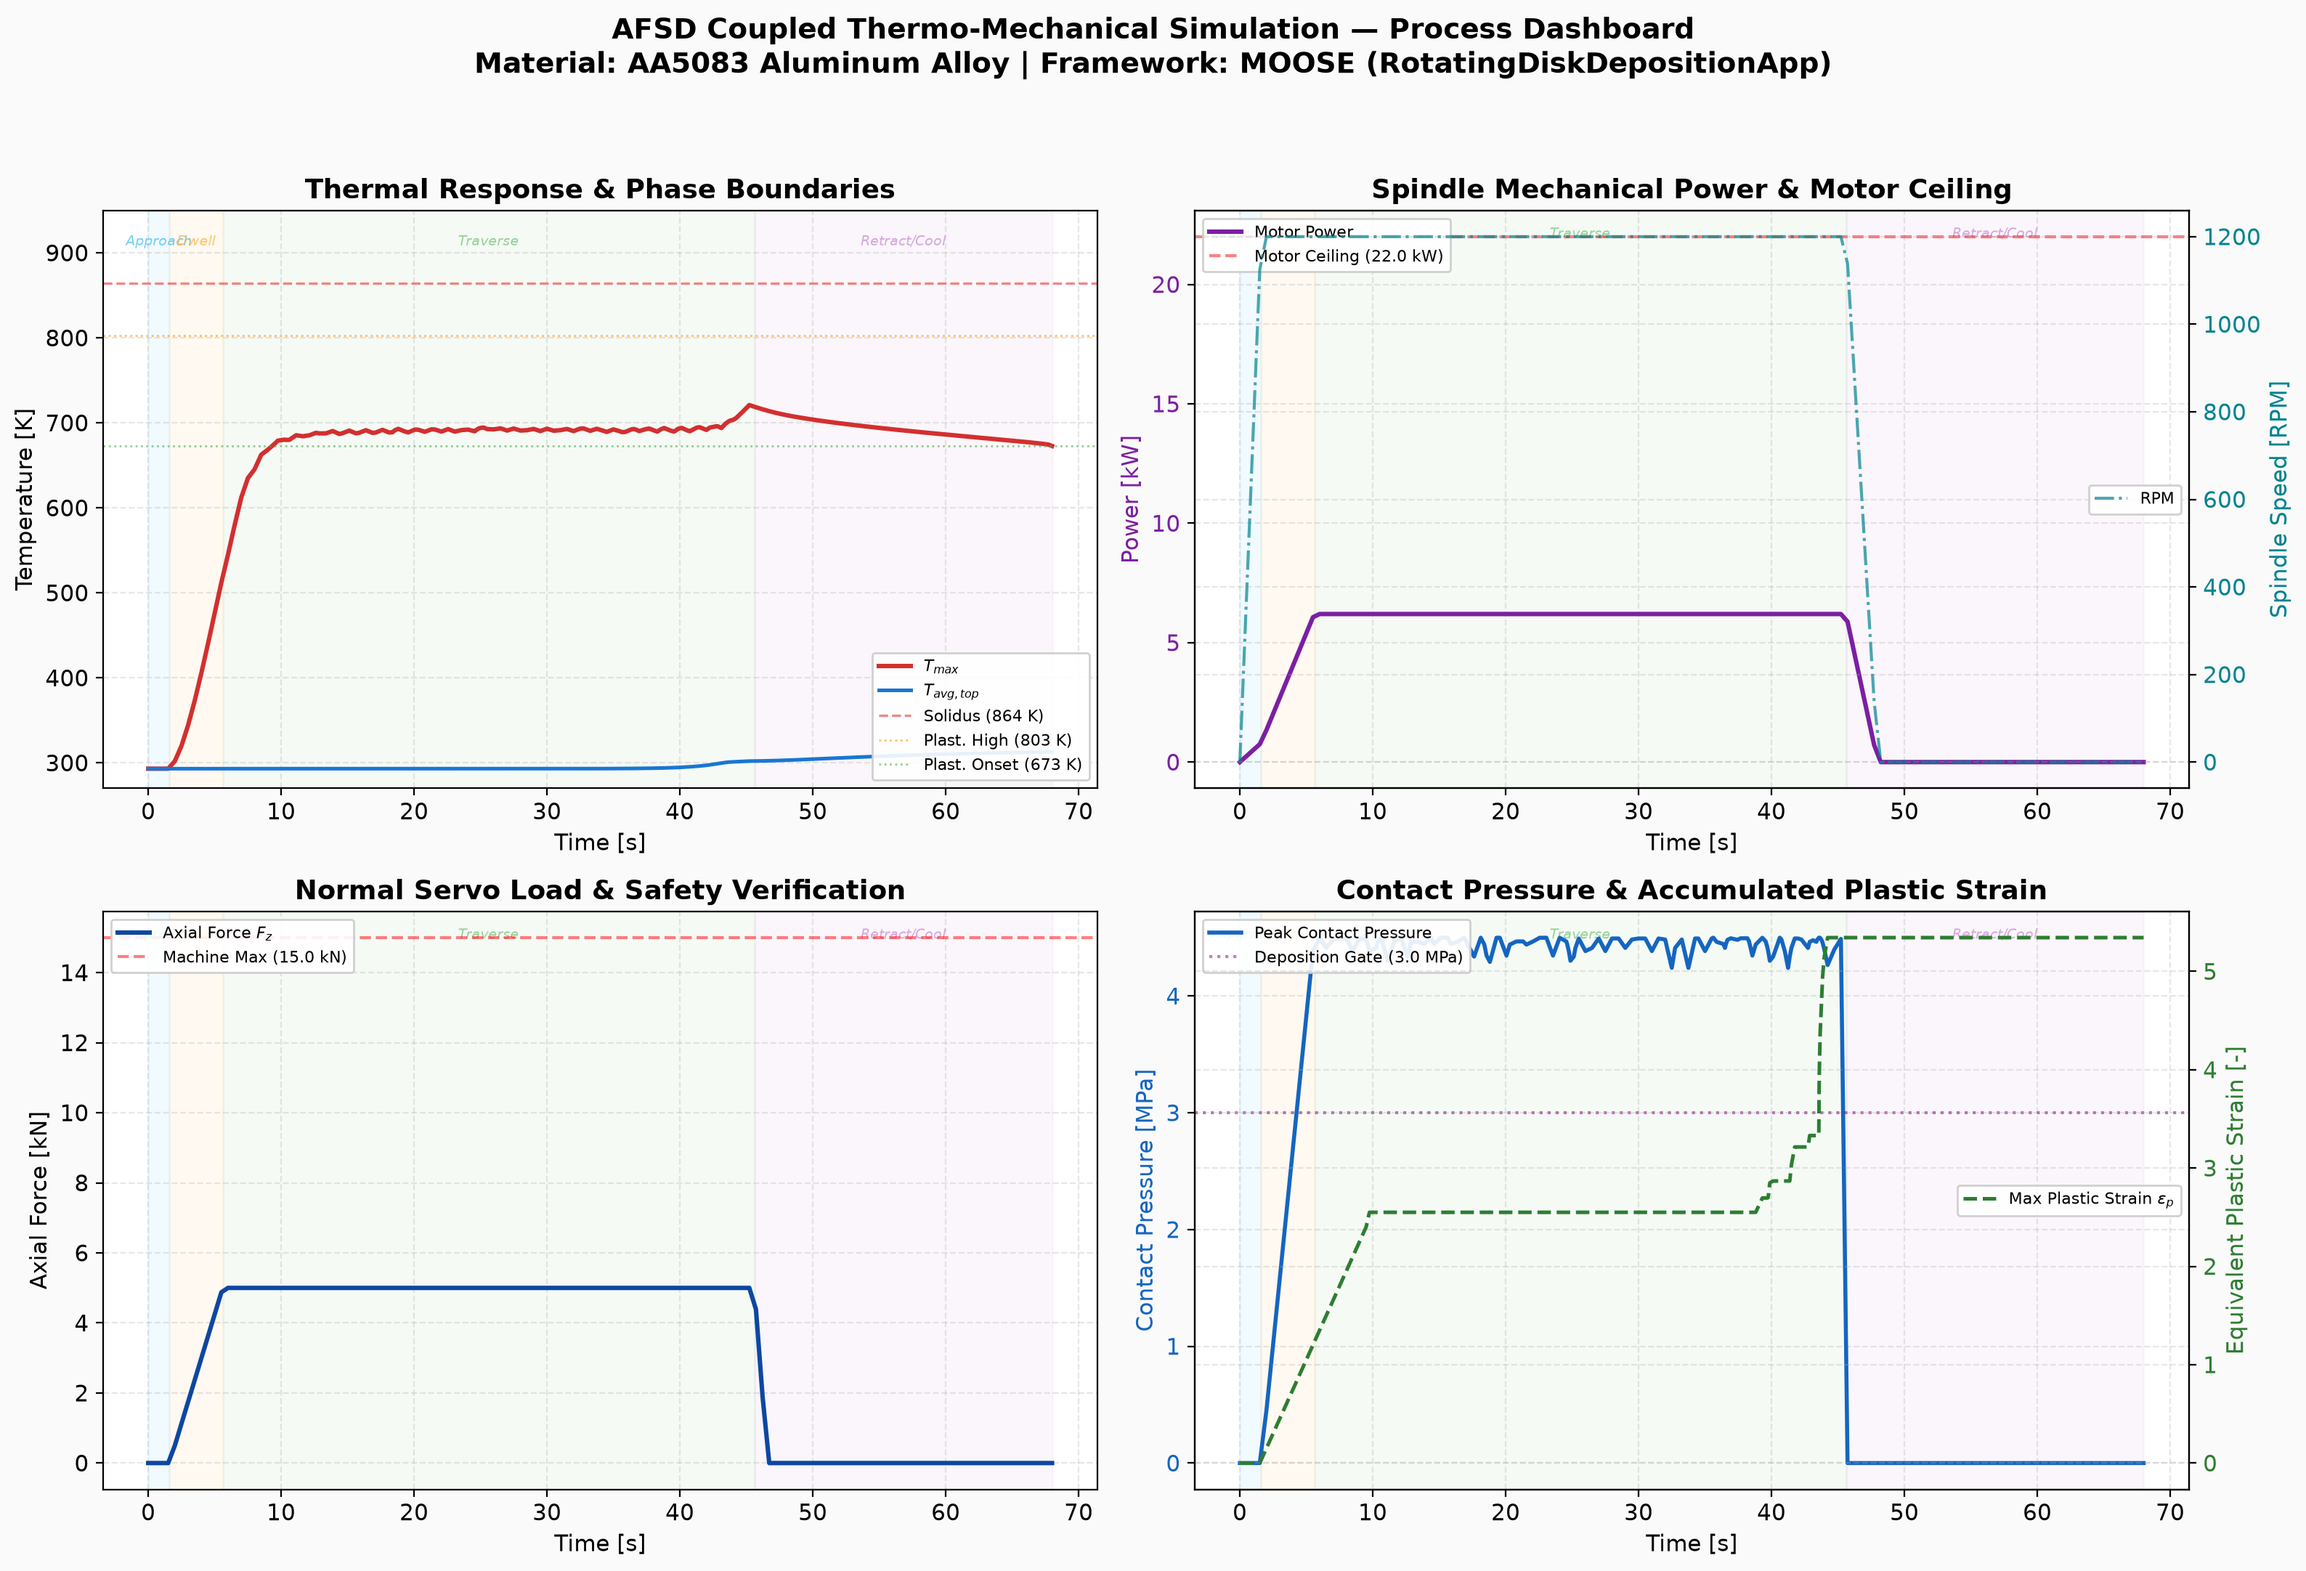
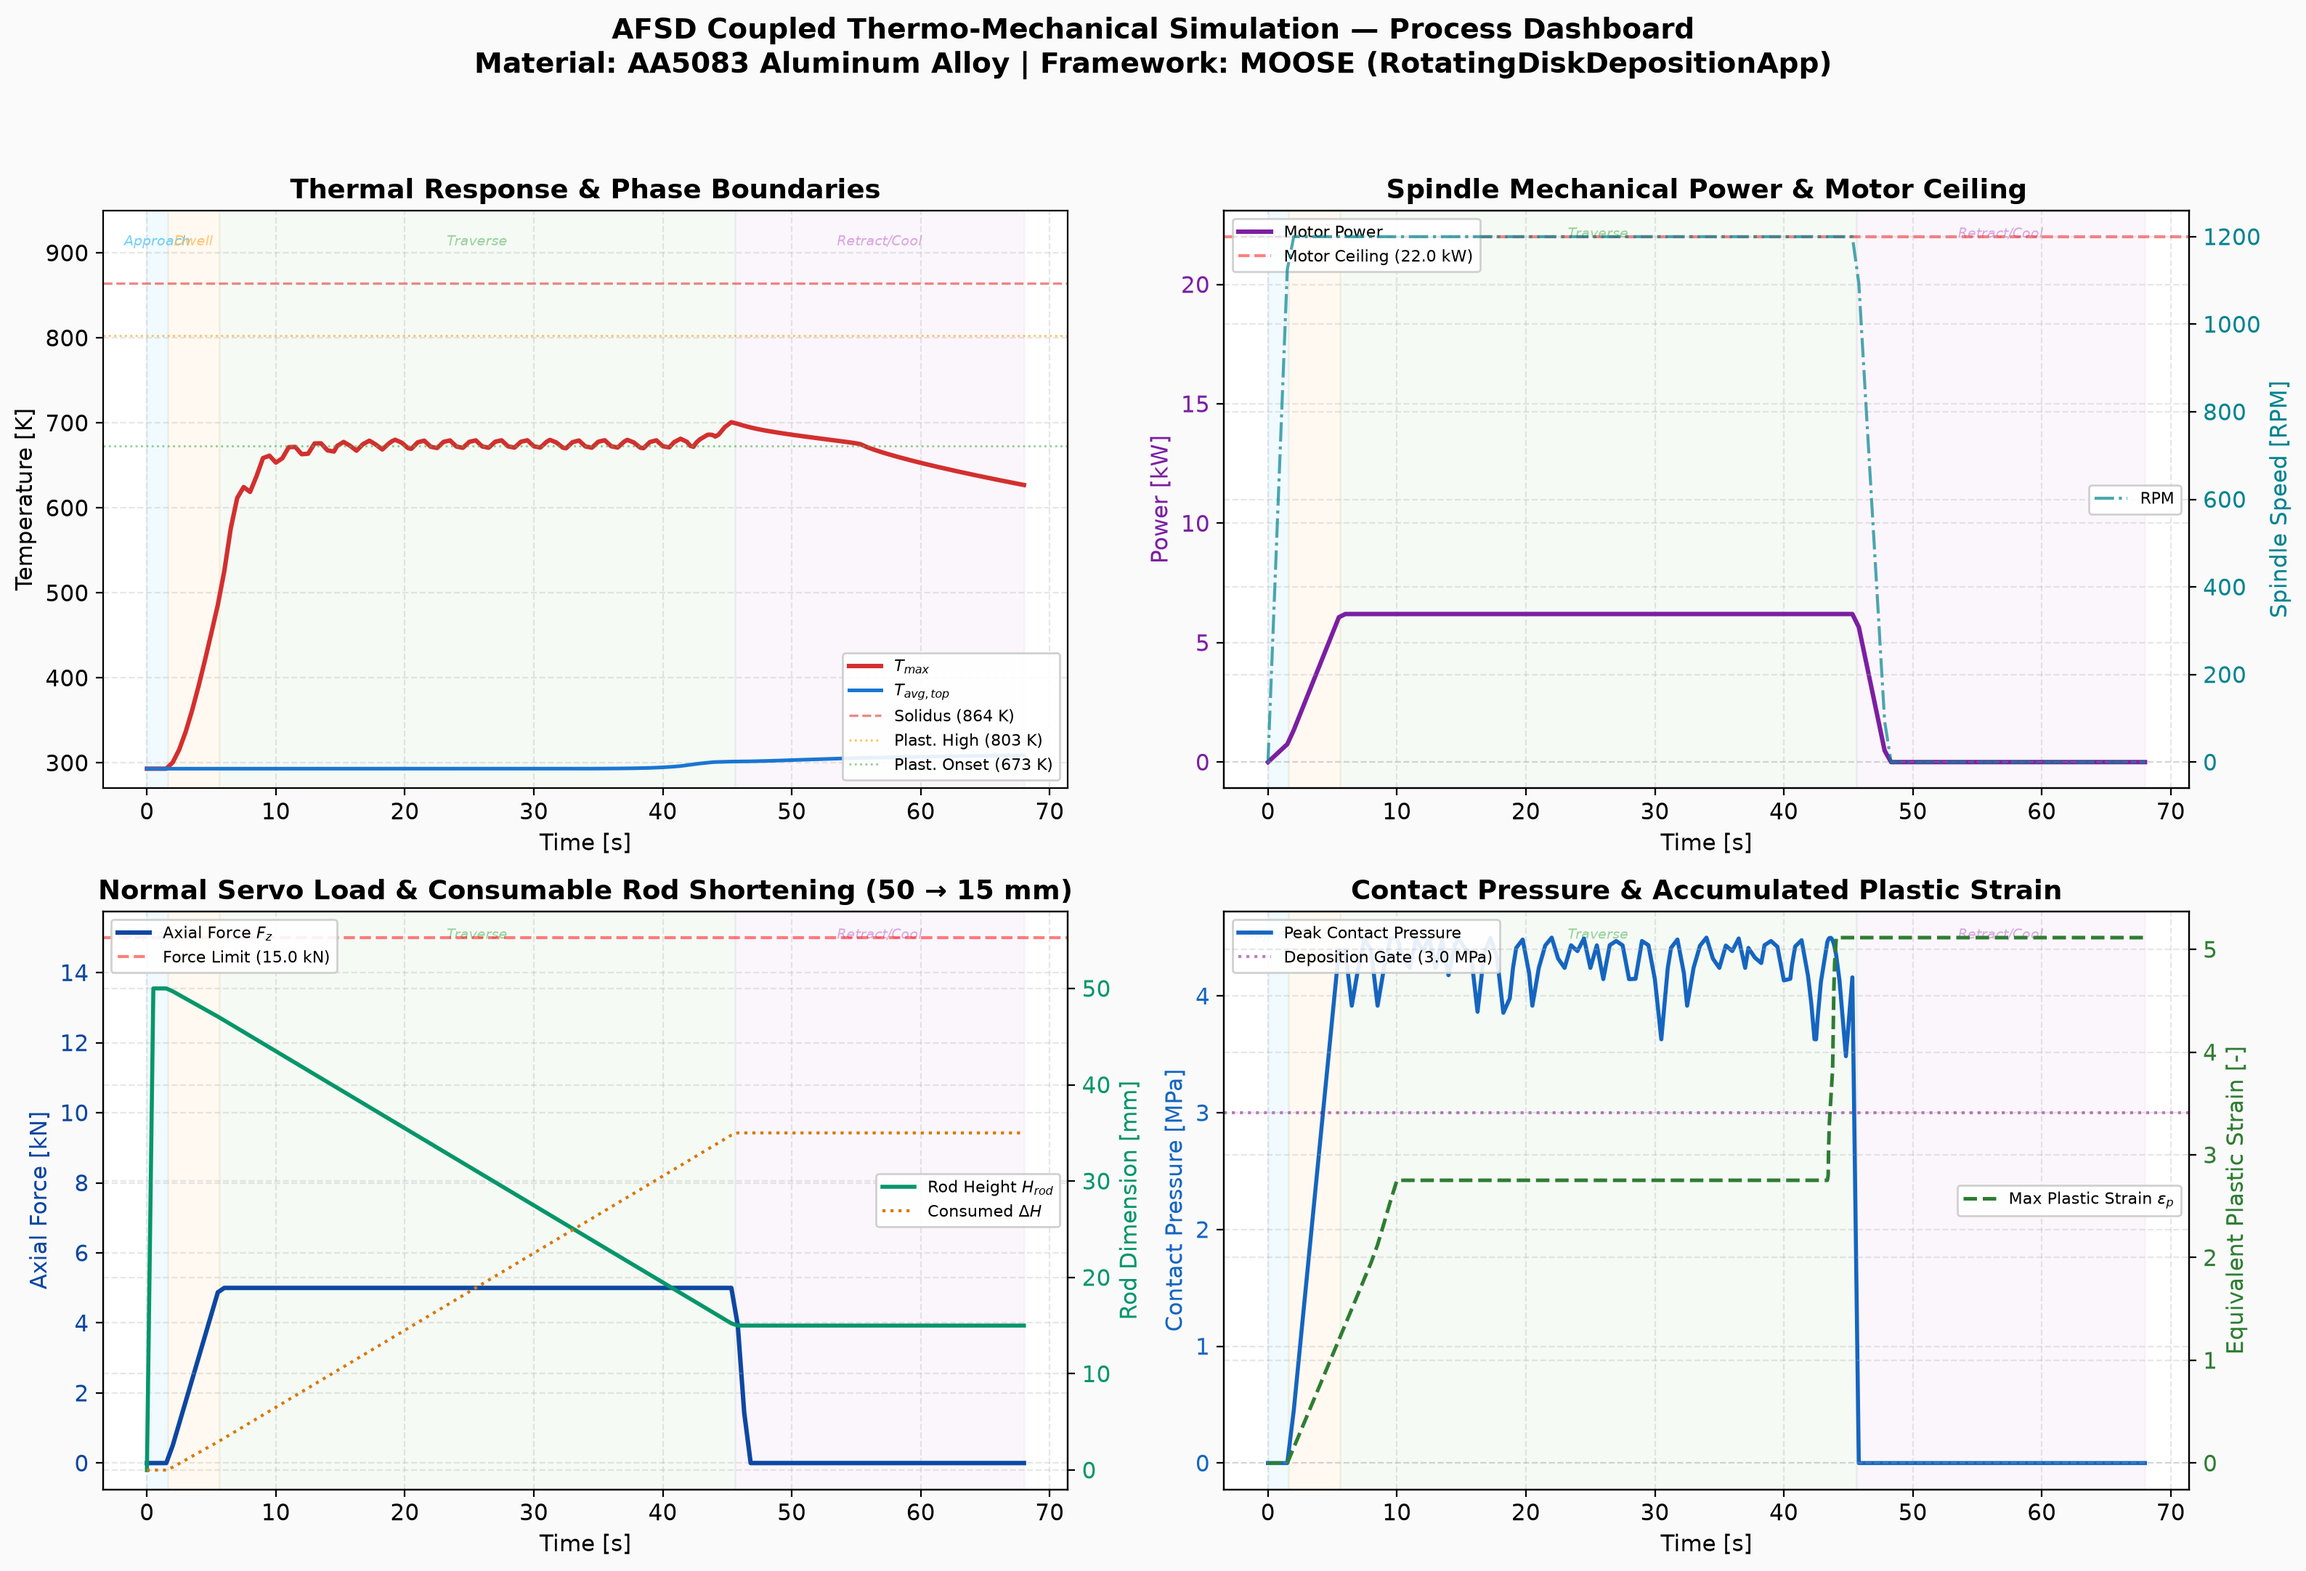
Auto-sync: 2026-10-20 12:10:02

diff --git a/scripts/visualize_results.py b/scripts/visualize_results.py
@@ -152,15 +152,26 @@ def postprocess_simulation_data(workspace_dir):
     ax.legend(loc='upper left', fontsize=8, framealpha=0.9)
     add_stage_bands(ax, t_max)
     
-    # ── Panel 3: Axial Load (kN) ─────────────────────────────────────────
+    # ── Panel 3: Axial Load (kN) & Rod Shortening (mm) ───────────────────
     ax = axs[1, 0]
     if 'force_kN' in df.columns:
         ax.plot(t, df['force_kN'].values, color='#0D47A1', linewidth=2.2, label='Axial Force $F_z$')
-        ax.axhline(MACHINE_FORCE_LIMIT_kN, color='red', ls='--', alpha=0.5, label=f'Machine Max ({MACHINE_FORCE_LIMIT_kN} kN)')
+        ax.axhline(MACHINE_FORCE_LIMIT_kN, color='red', ls='--', alpha=0.5, label=f'Force Limit ({MACHINE_FORCE_LIMIT_kN} kN)')
+        ax.set_ylabel("Axial Force [kN]", color='#0D47A1')
+        ax.tick_params(axis='y', labelcolor='#0D47A1')
+
+    if 'rod_height_mm' in df.columns:
+        ax_rod = ax.twinx()
+        ax_rod.plot(t, df['rod_height_mm'].values, color='#059669', linewidth=2.0, ls='-', label='Rod Height $H_{rod}$')
+        if 'consumed_length_mm' in df.columns:
+            ax_rod.plot(t, df['consumed_length_mm'].values, color='#D97706', linewidth=1.5, ls=':', label=r'Consumed $\Delta H$')
+        ax_rod.set_ylabel("Rod Dimension [mm]", color='#059669')
+        ax_rod.tick_params(axis='y', labelcolor='#059669')
+        ax_rod.set_ylim(-2, 58)
+        ax_rod.legend(loc='center right', fontsize=8, framealpha=0.9)
     
     ax.set_xlabel("Time [s]")
-    ax.set_ylabel("Axial Force [kN]")
-    ax.set_title("Normal Servo Load & Safety Verification", fontweight='semibold')
+    ax.set_title("Normal Servo Load & Consumable Rod Shortening (50 → 15 mm)", fontweight='semibold')
     ax.legend(loc='upper left', fontsize=8, framealpha=0.9)
     add_stage_bands(ax, t_max)
     
